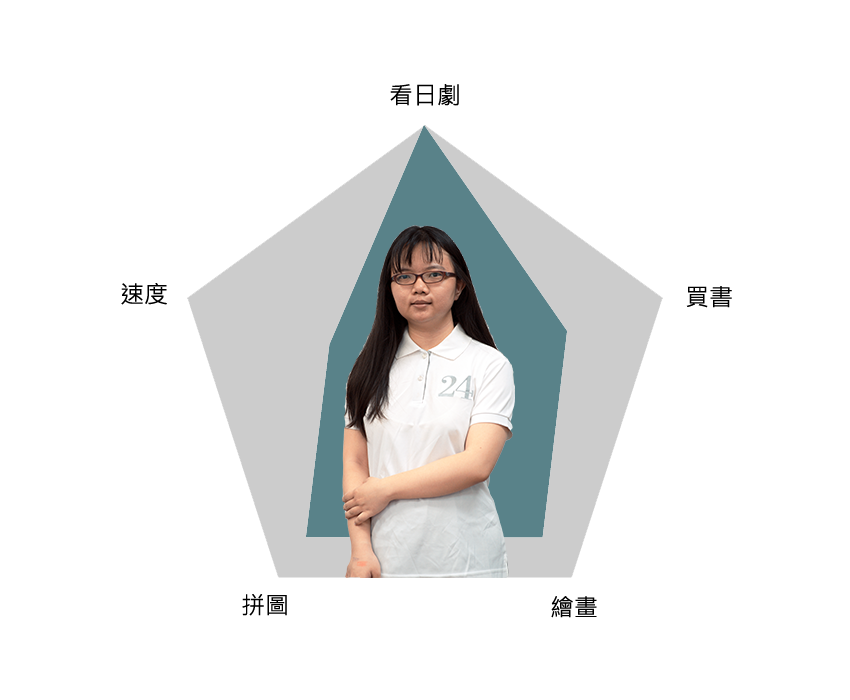
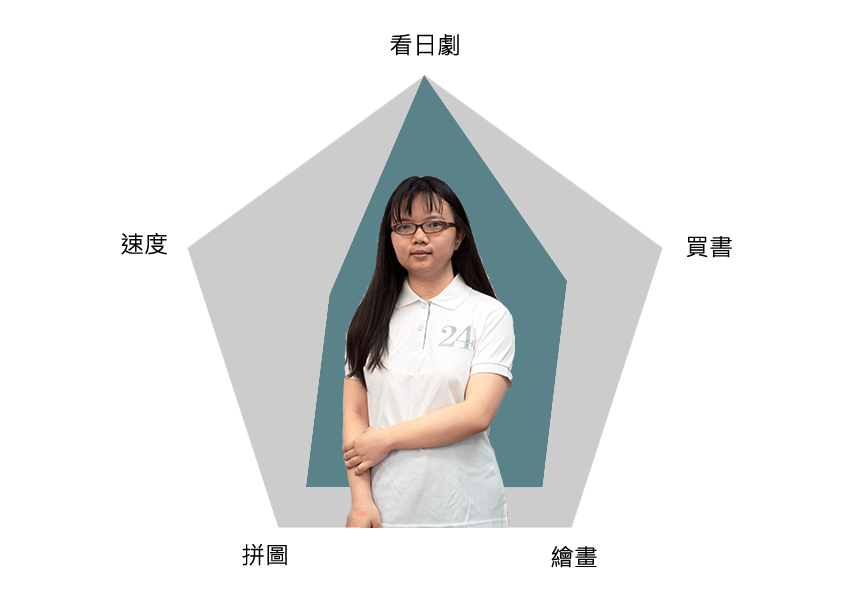
set modal min-height && reduce image height

diff --git a/style.css b/style.css
@@ -1,6 +1,6 @@
 body {
   font-family: "Microsoft JhengHei", Helvetica, sans-serif;
-  background:#C1E8E3;
+  background: #c1e8e3;
   height: 100%;
   width: 100%;
   margin: 0;
@@ -11,12 +11,12 @@ body {
   width: 100%;
 }
 
-.content-height {
-  height: calc(100vh - 100px);
+.content {
+  min-height: calc(100vh - 100px);
 }
 
 .content-el {
-  height: calc(100vh - 100px);
+  min-height: calc(100vh - 100px);
 }
 
 .col-half {
@@ -64,11 +64,11 @@ body {
 }
 
 .navbar {
-  font-family: "ITC Eras","Microsoft JhengHei", "Helvetica Neue", Helvetica;
+  font-family: "ITC Eras", "Microsoft JhengHei", "Helvetica Neue", Helvetica;
   font-size: 50px;
   text-align: center;
-  margin-top: 15px;
-  height: 100px;
+  padding-top: 15px;
+  height: 80px;
   word-spacing: 30px;
   font-weight: 300;
 }
@@ -93,7 +93,7 @@ body {
   background: rgba(233, 233, 233, 0.9);
   position: absolute;
   width: 90%;
-  top: 80px;
+  top: 85px;
   left: 0;
   right: 0;
   margin: 0 5%;
@@ -132,12 +132,13 @@ body {
   flex-direction: row;
   justify-content: center;
   flex-wrap: wrap;
-  height: 80vh;
+  margin: 0 5%;
 }
+
 .item2,
 .item1 {
-  margin: 0.5%;
-  height: 70vh;
+  margin: 0 0.5%;
+  height: 80vh;
   cursor: pointer;
   color: #ffffff;
   opacity: 1;
@@ -183,17 +184,31 @@ body {
 }
 
 @keyframes img-hid {
-  0%   {opacity: 1;}
-  100% {opacity: 0;}
+  0% {
+    opacity: 1;
+  }
+  100% {
+    opacity: 0;
+  }
 }
 
 @keyframes img-click-hid {
-  0%   {opacity: 1;}
-  100% {opacity: 0;}
+  0% {
+    opacity: 1;
+  }
+  100% {
+    opacity: 0;
+  }
 }
 
 @keyframes modal-show {
-  0%   {opacity: 0;}
-  50%  {opacity: 0;}
-  100% {opacity: 1;}
+  0% {
+    opacity: 0;
+  }
+  50% {
+    opacity: 0;
+  }
+  100% {
+    opacity: 1;
+  }
 }

diff --git a/index.html b/index.html
@@ -11,12 +11,14 @@
 </head>
 
 <body>
+  <!-- partial:index.partial.html -->
   <div class="navbar">
     ABOUT US
   </div>
+  <!--六個介紹框-->
 
   <div id="content" class="content">
-    <div id="members" class="container">
+    <div id="members" class="container content-el">
       <img class="item1" record-id="0" src="./public/person_01.png">
       <img class="item2" record-id="1" src="./public/person_02.png">
       <img class="item1" record-id="2" src="./public/person_03.png">
@@ -26,6 +28,24 @@
     </div>
   </div>
 
+  <!--div class="content-el modal">
+    <div class="close"></div>
+    <div class="row profile justify-center">
+      <div class="left column content-el justify-center">
+        <img class="profile-img" src="./public/profile_01.png">
+      </div>
+
+      <div class="right profile-info content-el column justify-center">
+        <div>
+          <h1 id="name">陳位旭</h1>
+          <p id="degree">工資109</p>
+          <p id="position">街頭賣藥</p>
+          <h2 id="motto">"凡事求個緣, idea不用選"</h2>
+        </div>
+      </div>
+    </div>
+  </div-->
+  <!-- partial -->
   <script src='https://cdnjs.cloudflare.com/ajax/libs/jquery/3.4.1/jquery.min.js'></script>
   <script src="./script.js"></script>
 

diff --git a/script.js b/script.js
@@ -46,10 +46,10 @@ const person_detail = [
 function modalContent(recordId) {
   const person = person_detail[recordId];
   return `
-  <div class="modal modal-show">
+  <div class="content-el modal modal-show">
     <div class="close"></div>
     <div record-id="${recordId}" class="row profile justify-center">
-      <div class="left column justify-center">
+      <div class="left column content-el justify-center">
         <img class="profile-img" src="${person.skill_img}">
       </div>
 
